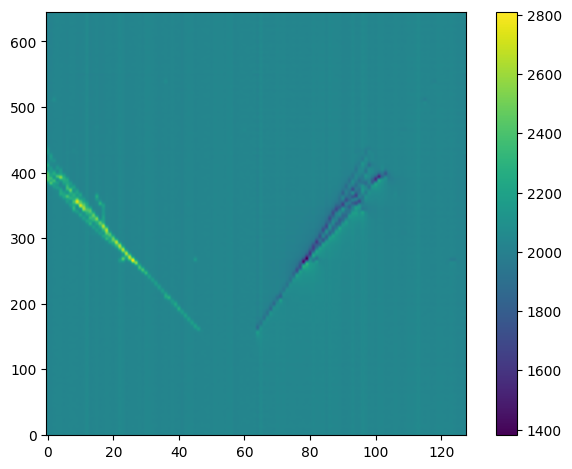
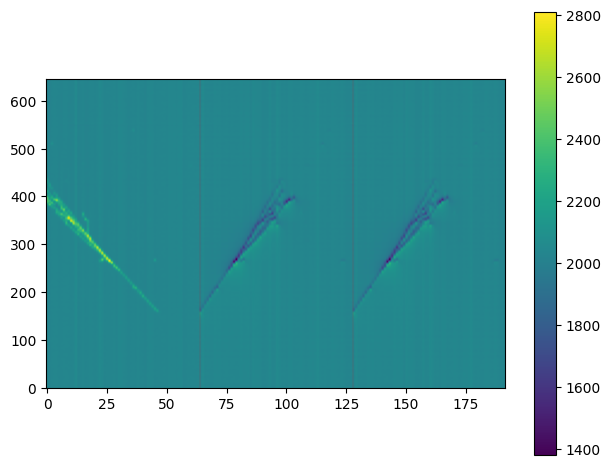
By default, copy induction data to make a second induction plane

diff --git a/python/wirecell/pcbro/__main__.py b/python/wirecell/pcbro/__main__.py
@@ -23,21 +23,34 @@ def gen_wires(output_file):
     columns:
         channel plane wire sx sy sz ex ey ez
     '''
-    # 320mm x 320mm active area with 64x64 strips
-    # 1.25mm hole at 2mm pitch, 2.5mm hole at 3.33 mm pitch
-    # for now, we assume whole thing is the former.
-    pitch = 0.2                 # cm
+    # 320mm x 320mm active area with 64x64 strips.  Strip pitch is
+    # 5mm.  1.25mm hole at 2mm hole-pitch, 2.5mm hole at 3.33 mm
+    # hole-pitch.  A collection strip has constant hole pattern.
+    # Induction strip is half small-hole, half large-hole.
+    pitch = 0.5                 # cm, strip pitch
     
 
     # "physical" channels match strips and are:
     # - 1-64 for collection
-    # - 65-128 for induction
+    # - 65-128 for induction 1
+    # - 129-192 for duplicate induction 2
     print("warning: using ideal wire spacing")
     lines = list()
     
-    plane=0                     # induction
-    # put collection strips pointing along Y-axis and just negative in X.
-    sx = ex = +0.1              # cm, and totally bogus
+    # In Z vs Y space the detector has 4 unique quadrants (ignoring
+    # some edge details)
+    # (+Y, +Z) : large holes (large col chan nums, large ind chan nums)
+    # (-Y, +Z) : large holes (large col chan nums, small ind chan nums)
+    # (+Y, -Z) : small holes (small col chan nums, large ind chan nums)
+    # (-Y, -Z) : small holes (small col chan nums, small ind chan nums)
+    
+
+    # A first inducton strip runs parallel to Z axis.  Small holes are
+    # Z<0, big holds Z>0.  Strips counted from most negative to most
+    # positive Y.  A strip boundary between two middle strips is at
+    # Y=0.
+    plane=0
+    sx = ex = +0.1              # cm, bogus value
     sz = -32*pitch
     ez = +32*pitch
     sy = ey = -32*pitch + 0.5*pitch
@@ -48,19 +61,27 @@ def gen_wires(output_file):
         sy += pitch
         ey += pitch
         
-    plane=1                     # induction
+    # A second induction plane is identically overlapping the first
+    # and has "virtual" channels starting just after the first
+    # induction plane.  Data for this plane is identical for first
+    # induction but may have a different field response.
+    plane=1
     # put collection strips pointing along Y-axis and just negative in X.
     sx = ex = +0.1              # cm, and totally bogus
     sz = -32*pitch
     ez = +32*pitch
     sy = ey = -32*pitch + 0.5*pitch
-    for iwire in range(64,128):
-        chan = 1000+iwire+1
+    for iwire in range(128,192):
+        chan = iwire+1
         l = f'{chan:3d} {plane:1d} {iwire:3d} {sx:8.2f} {sy:8.2f} {sz:8.2f} {ex:8.2f} {ey:8.2f} {ez:8.2f}'
         lines.append(l)
         sy += pitch
         ey += pitch
 
+    # A single collection plane has strips parallel to the Y-axis.
+    # Strips are counted from most-negative to most-positive Z.  First
+    # 32 channels (Z<0) have small holes, second 32 channels (Z>0)
+    # have large holes.
     plane=2                     # collection
     # put collection strips pointing along Y-axis and just negative in X.
     sx = ex = -0.1              # cm, and totally bogus
@@ -99,9 +120,13 @@ def plot_one(tag, trigger, aspect, output, npzfile):
     fp = numpy.load(npzfile)
     a = fp[f'frame_{tag}_{trigger}']
     rows, cols = a.shape;
+    print (rows,cols)
+
     # a = numpy.flip(a,0)
     plt.imshow(a, aspect=aspect, interpolation=None)
-    plt.plot((cols//2, cols//2), (0, rows-1), linewidth=0.1, color='red')
+    plt.plot((64, 64), (0, rows-1), linewidth=0.1, color='red')
+    if cols == 192:
+        plt.plot((128, 128), (0, rows-1), linewidth=0.1, color='red')
     c = plt.colorbar()
     plt.gca().invert_yaxis()
     plt.tight_layout()
@@ -133,7 +158,9 @@ def plot_many(aspect, output, npzfile):
             # a = numpy.flip(a,0)
             fig, ax = plt.subplots(nrows=1, ncols=1)
             plt.imshow(a, aspect=aspect, interpolation=None)
-            plt.plot((cols//2, cols//2), (0, rows-1), linewidth=0.1, color='red')
+            plt.plot((64, 64), (0, rows-1), linewidth=0.1, color='red')
+            if cols == 192:
+                plt.plot((128, 128), (0, rows-1), linewidth=0.1, color='red')
             c = plt.colorbar()
             plt.gca().invert_yaxis()
             plt.tight_layout()
@@ -148,7 +175,7 @@ def plot_many(aspect, output, npzfile):
              help="Minimum sample value to be included in sum")
 @click.argument("npzfile")
 @click.argument("npzout")
-def activity(tag, trigger, npzfile, npzout):
+def activity(threshold, minimum, npzfile, npzout):
     import numpy
     fp = numpy.load(npzfile)
     arrays = dict()
@@ -156,8 +183,7 @@ def activity(tag, trigger, npzfile, npzout):
         if not k.startswith("frame_"):
             continue
         a = fp[k]
-        rows,cols = a.shape
-        c = a[:,:cols//2]
+        c = a[:,:64]
         cn = numpy.array(c - numpy.median(c, axis=0))
         act = numpy.sum(cn[cn>5])
         if act < 5000.0:

diff --git a/inc/WireCellPcbro/RawSource.h b/inc/WireCellPcbro/RawSource.h
@@ -36,7 +36,7 @@ namespace pcbro {
         std::vector<std::string> m_filenames;
         size_t m_filenum;
 
-        bool m_eos{false};
+        bool m_eos{false}, m_dupind{false};
         int m_ident{0};
         double m_tick{0.5*WireCell::units::us};
         std::string m_tag{""};
